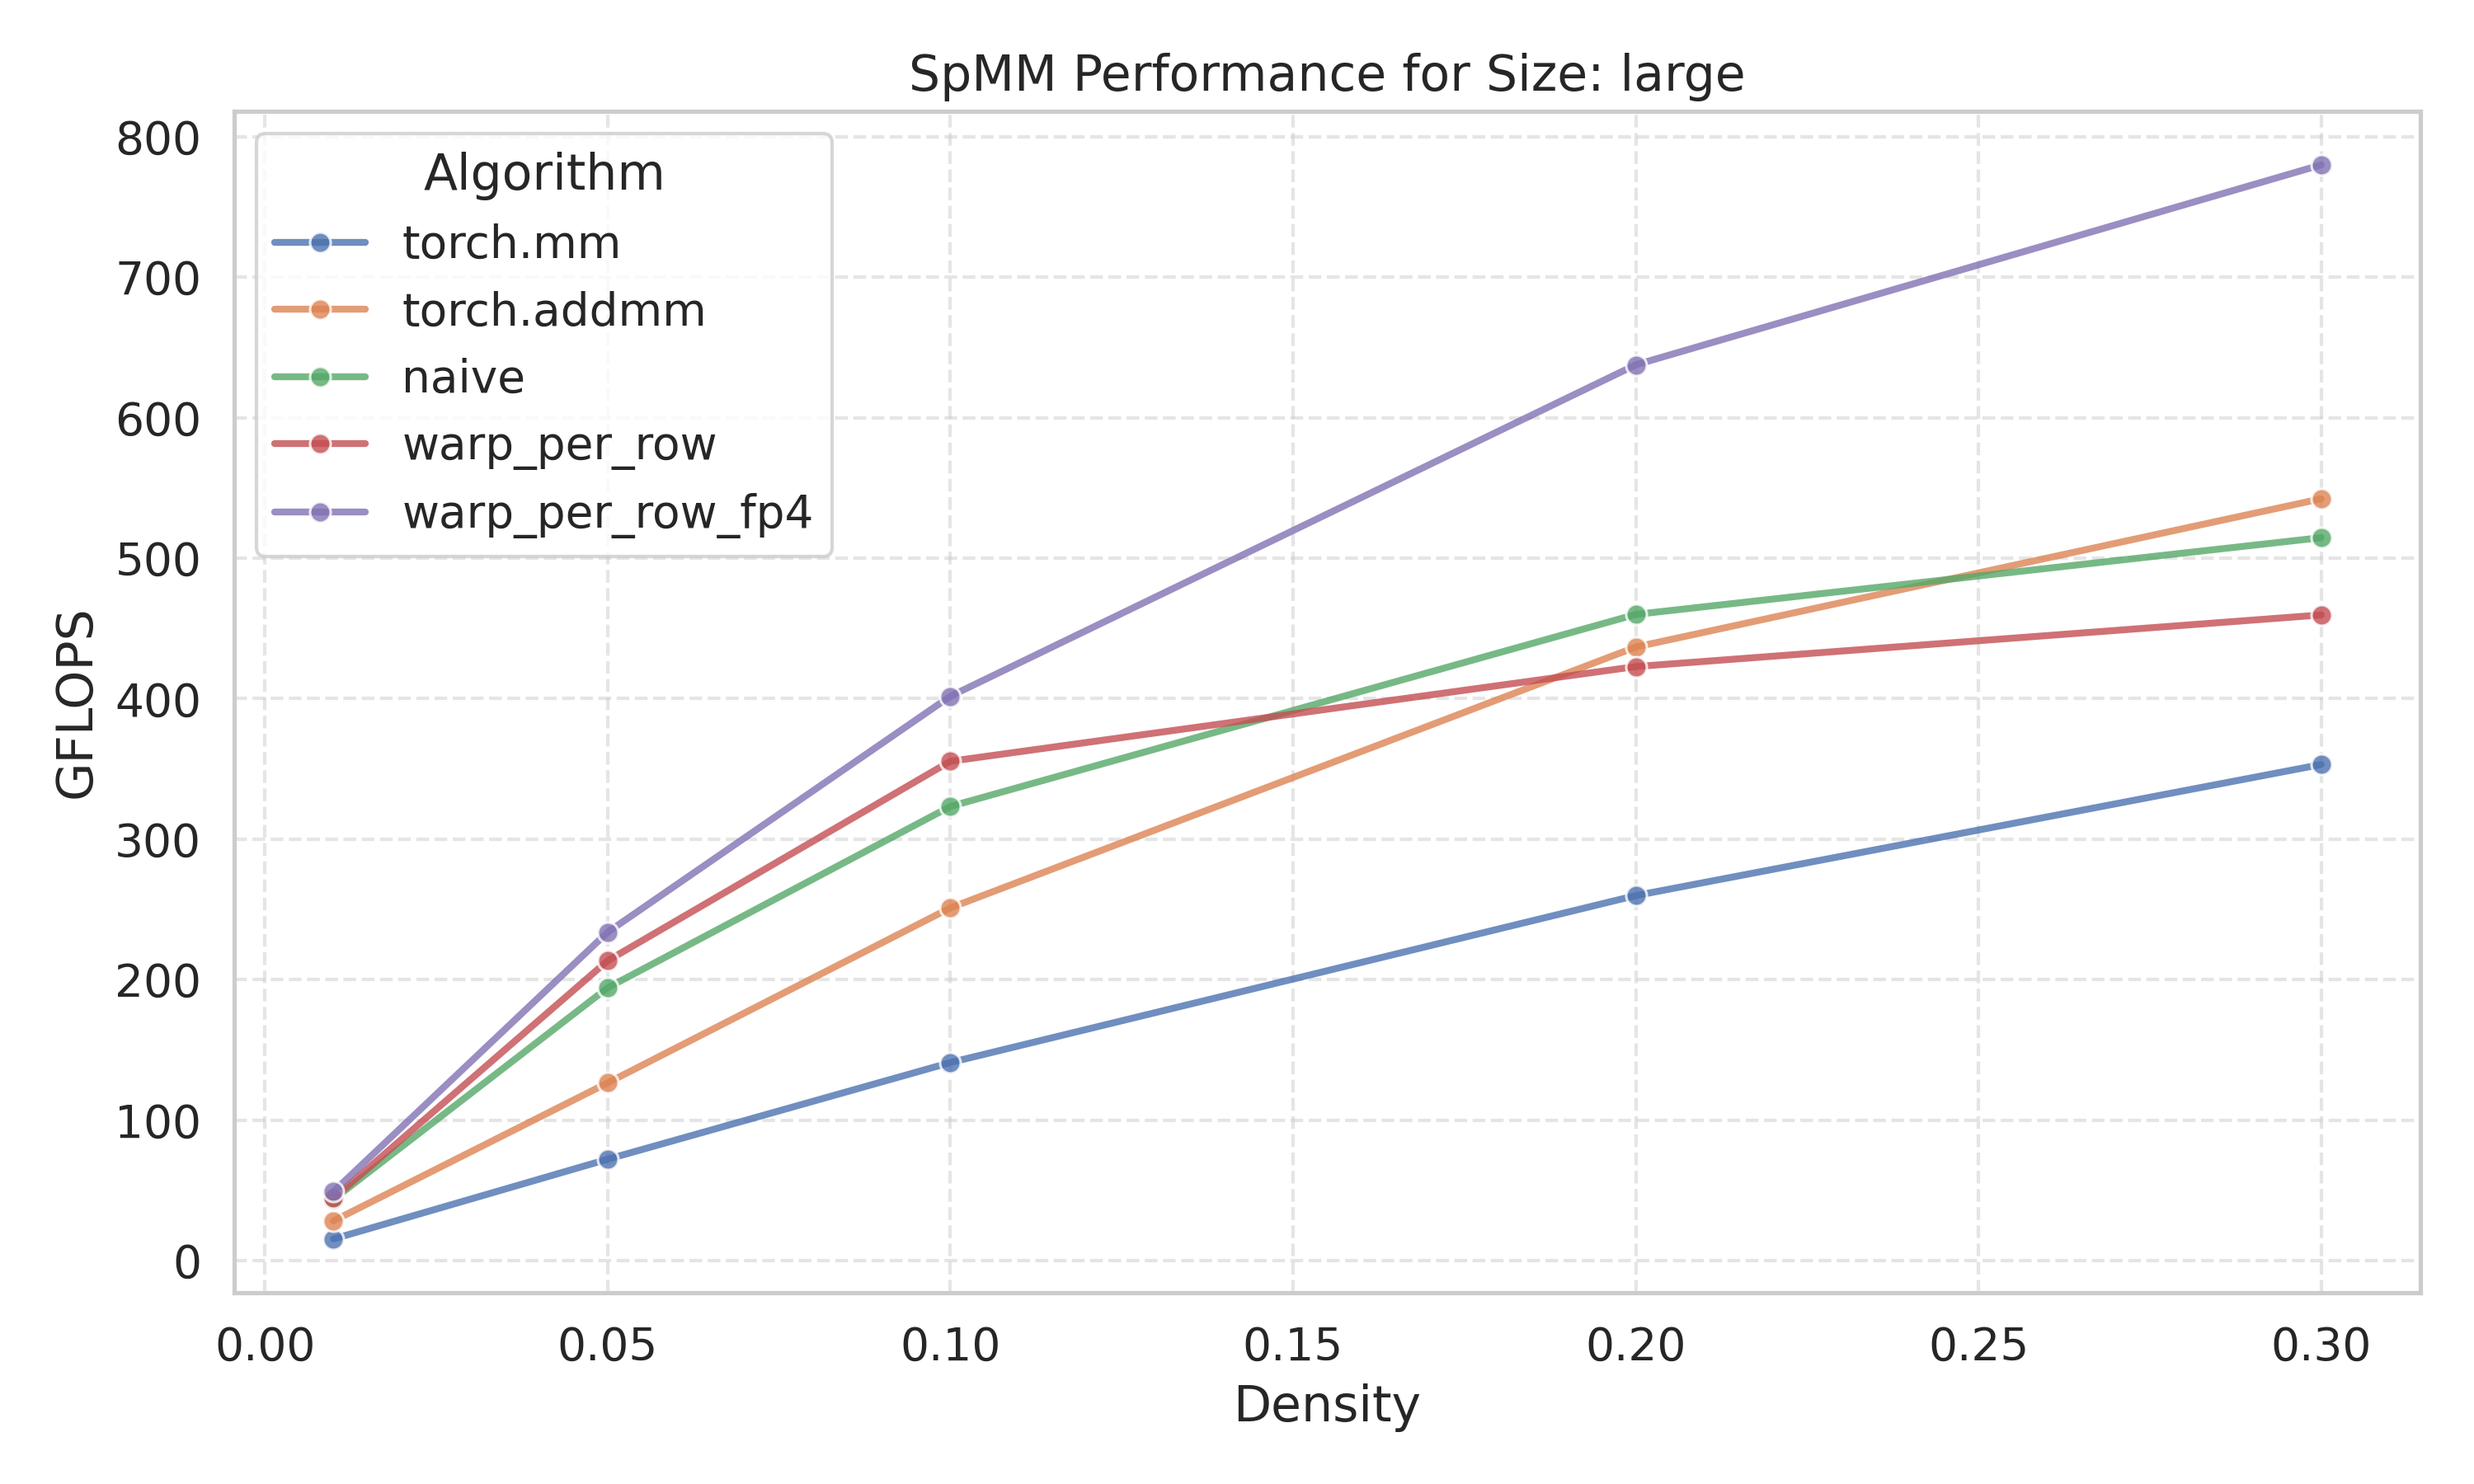
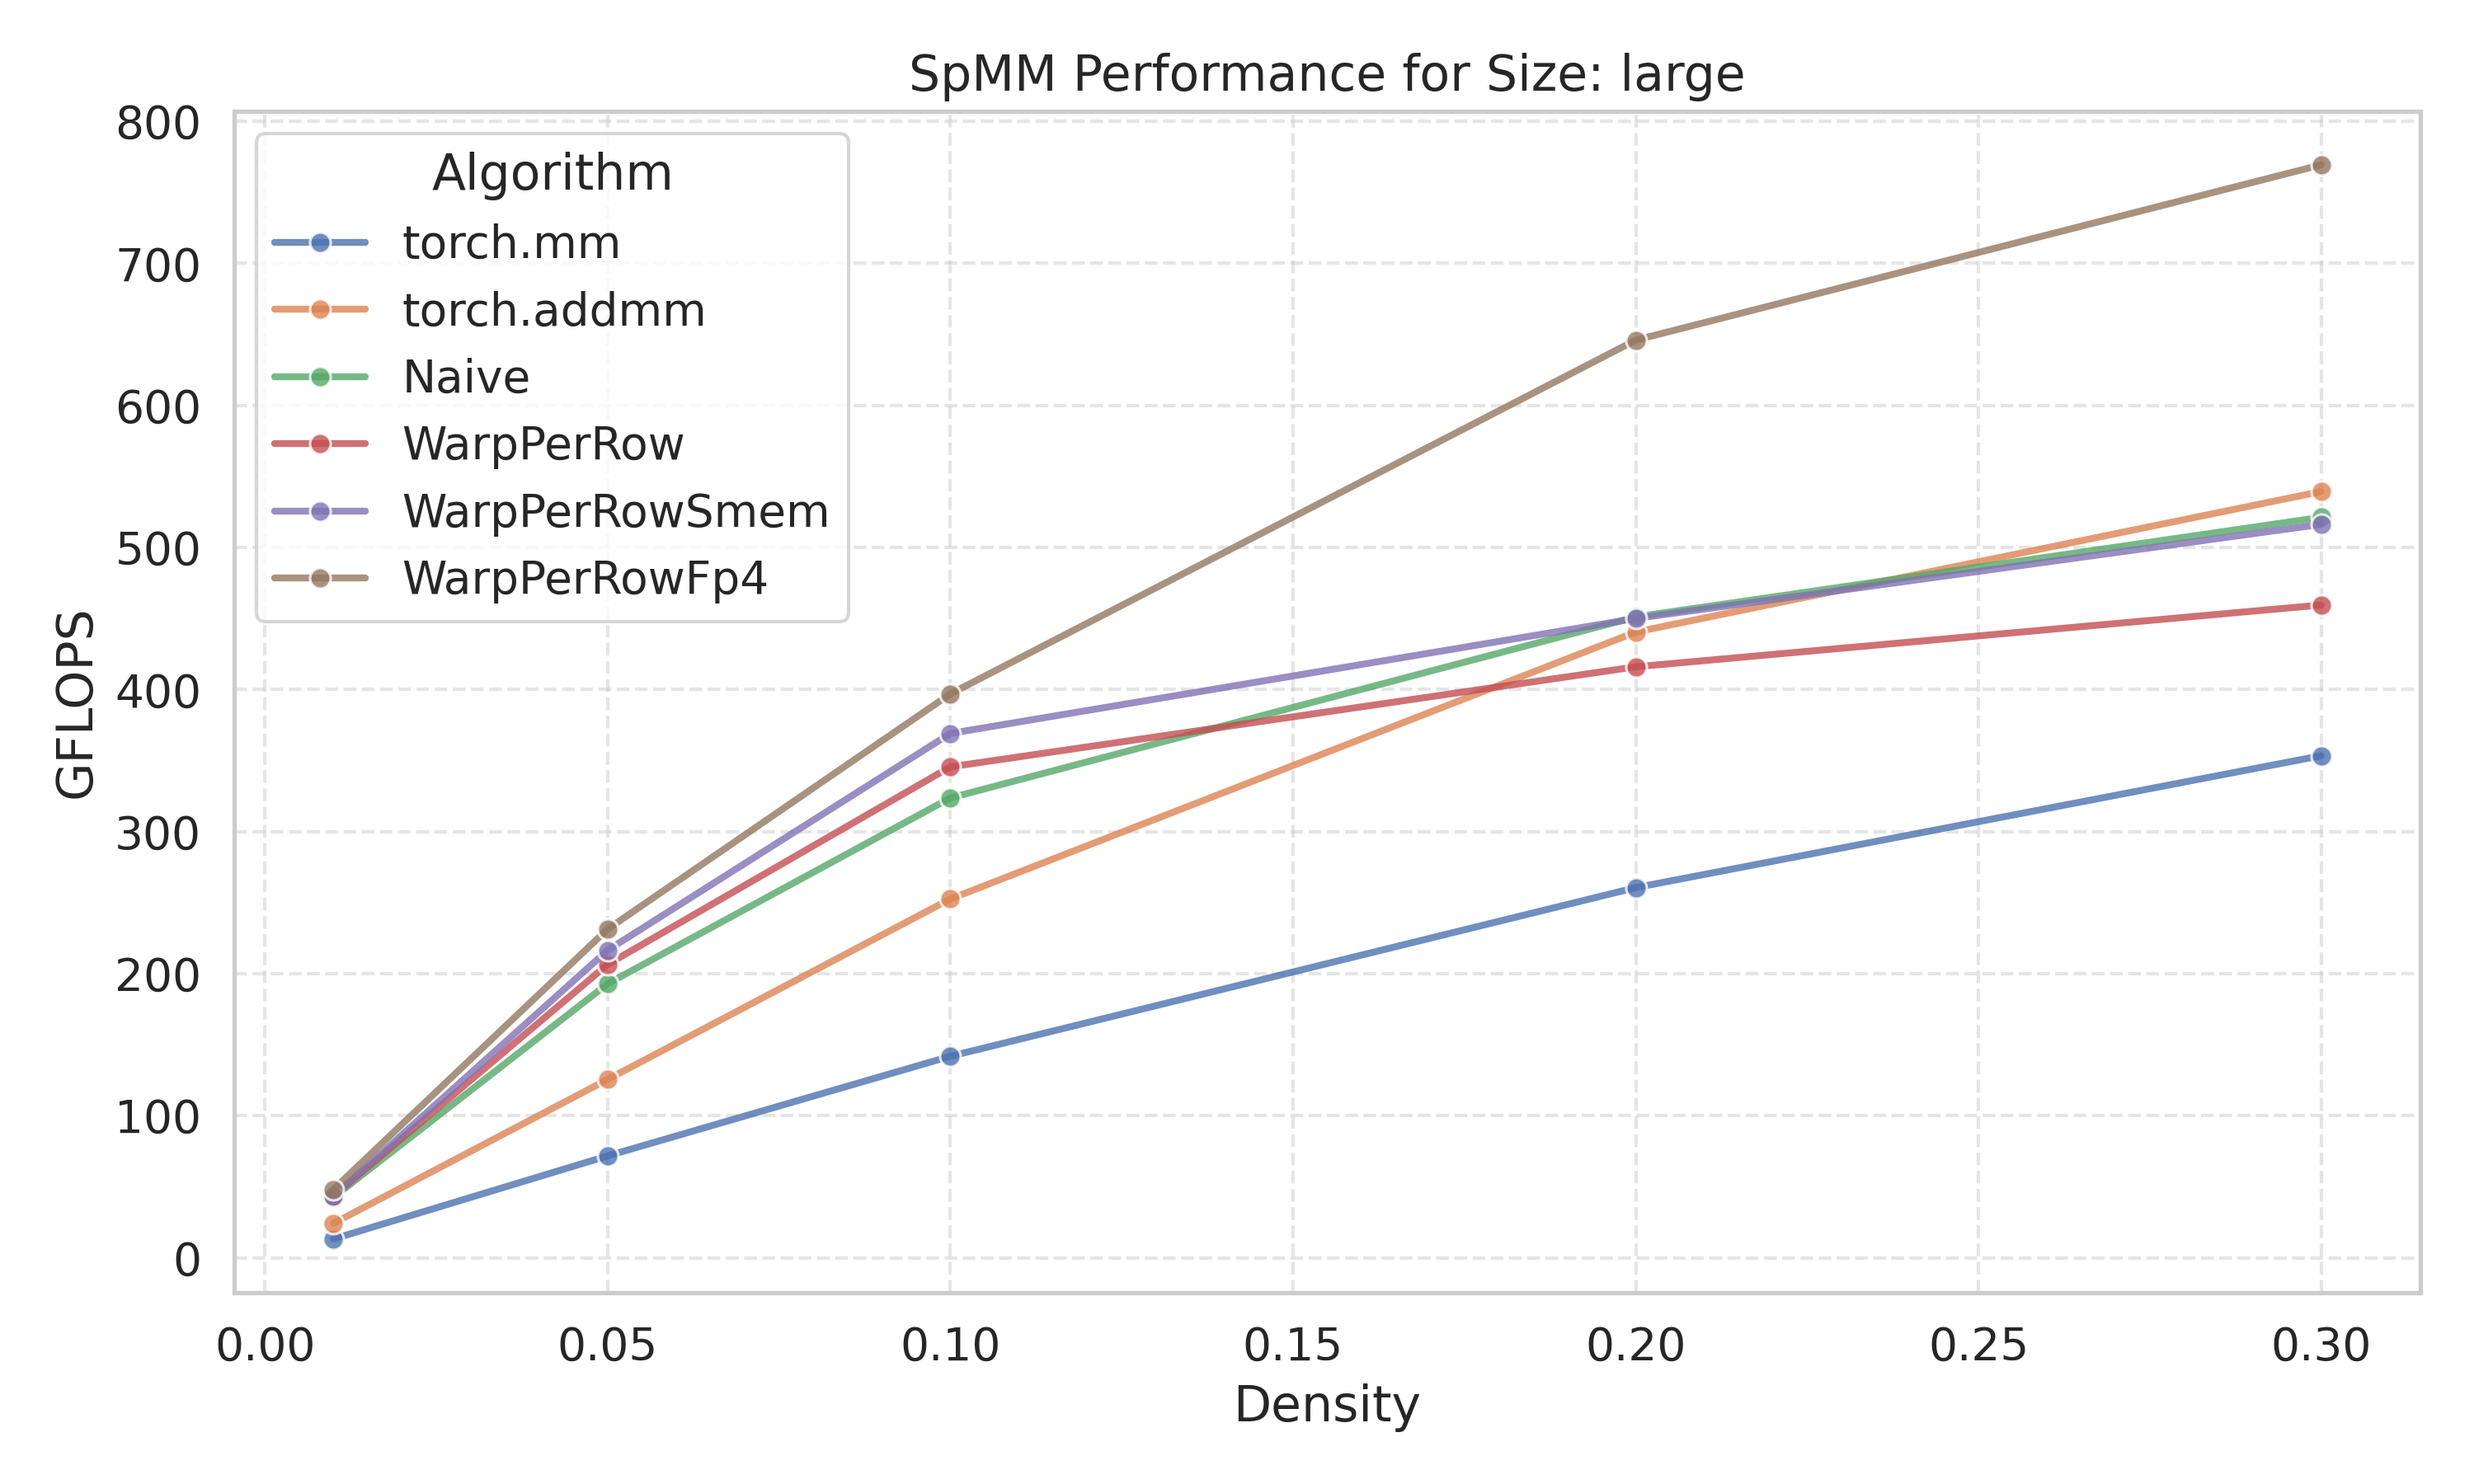
csrspmm warp per row smem interface

diff --git a/torch_csrspmm/torch_benchmarks.py b/torch_csrspmm/torch_benchmarks.py
@@ -36,11 +36,12 @@ def initialize_matrices(M, N, K, sparsity):
     return A, B, C, A_csr
 
 
-def extract_csr(A_csr):
+def preprocess_csr(A_csr):
     row = A_csr.crow_indices().to(torch.int32)
     col = A_csr.col_indices().to(torch.int32)
     val = A_csr.values()
-    return row, col, val
+    max_row_nnz = int((row[1:] - row[:-1]).max().item())
+    return row, col, val, max_row_nnz
 
 
 def time_fn(fn, *args, n_warmup=20, iters=100):
@@ -78,6 +79,9 @@ def fn_naive(alpha, row, col, val, B, beta, C):
 def fn_warp_per_row(alpha, row, col, val, B, beta, C):
     return torch_csrspmm.csrspmm_warp_per_row(row, col, val, B, alpha, beta)
 
+def fn_warp_per_row_smem(alpha, row, col, val, max_row_nnz, B, beta, C):
+    return torch_csrspmm.csrspmm_warp_per_row_smem(row, col, val, max_row_nnz, B, alpha, beta)
+
 def fn_warp_per_row_fp4(alpha, row, col, val, B, beta, C):
     return torch_csrspmm.csrspmm_warp_per_row_fp4(row, col, val, B, alpha, beta)
 
@@ -96,14 +100,15 @@ def main():
             A, B, C, A_csr = initialize_matrices(M, N, K, sparsity)
             nnz = A_csr.values().numel()
 
-            row, col, val = extract_csr(A_csr)
+            row, col, val, max_row_nnz = preprocess_csr(A_csr)
 
             timings = {
                 "torch.mm": time_fn(fn_torch_mm, alpha, A_csr, beta, B, C),
                 "torch.addmm": time_fn(fn_torch_addmm, alpha, A_csr, beta, B, C),
-                "naive": time_fn(fn_naive, alpha, row, col, val, B, beta, C),
-                "warp_per_row": time_fn(fn_warp_per_row, alpha, row, col, val, B, beta, C),
-                "warp_per_row_fp4": time_fn(fn_warp_per_row_fp4, alpha, row, col, val, B, beta, C),
+                "Naive": time_fn(fn_naive, alpha, row, col, val, B, beta, C),
+                "WarpPerRow": time_fn(fn_warp_per_row, alpha, row, col, val, B, beta, C),
+                "WarpPerRowSmem": time_fn(fn_warp_per_row_smem, alpha, row, col, val, max_row_nnz, B, beta, C),
+                "WarpPerRowFp4": time_fn(fn_warp_per_row_fp4, alpha, row, col, val, B, beta, C),
             }
 
             for algo, t in timings.items():

diff --git a/torch_csrspmm/torch_csrspmm_warp_per_row_smem.cpp b/torch_csrspmm/torch_csrspmm_warp_per_row_smem.cpp
@@ -1,0 +1,61 @@
+#include <torch/extension.h>
+#include <iostream>
+
+#include "csrspmm/matrix.h"
+#include "csrspmm/csr_utils.h"
+#include "csrspmm/dense_utils.h"
+#include "csrspmm/spmm_launcher.cuh"
+
+using torch::Tensor;
+
+Tensor csrspmm_warp_per_row_smem_forward(
+    Tensor A_row_ptr,
+    Tensor A_col_idx,
+    Tensor A_values,
+    int A_max_row_nnz,
+    Tensor B,
+    float alpha,
+    float beta
+) {
+    TORCH_CHECK(A_row_ptr.is_cuda(), "A_row_ptr must be a CUDA tensor");
+    TORCH_CHECK(A_col_idx.is_cuda(), "A_col_idx must be a CUDA tensor");
+    TORCH_CHECK(A_values.is_cuda(), "A_values must be a CUDA tensor");
+    TORCH_CHECK(B.is_cuda(), "B must be a CUDA tensor");
+
+    TORCH_CHECK(A_row_ptr.dtype() == torch::kInt32,  "A_row_ptr must be int32");
+    TORCH_CHECK(A_col_idx.dtype() == torch::kInt32,  "A_col_idx must be int32");
+    TORCH_CHECK(A_values.dtype()  == torch::kFloat32, "A_values must be float32");
+    TORCH_CHECK(B.dtype() == torch::kFloat32, "B must be float32");
+
+    int M = A_row_ptr.size(0) - 1;
+    int K = B.size(0);
+    int N = B.size(1);
+
+    Tensor C = (beta == 0.f)
+        ? torch::empty({M, N}, B.options())
+        : torch::zeros({M, N}, B.options());
+
+    csrspmm::CSRMatrix dA;
+    dA.height = M;
+    dA.width  = K;
+    dA.nnz    = A_values.size(0);
+    dA.row_ptr = A_row_ptr.data_ptr<int>();
+    dA.col_idx = A_col_idx.data_ptr<int>();
+    dA.values  = A_values.data_ptr<float>();
+
+    dA.max_row_nnz = A_max_row_nnz;
+
+    csrspmm::DenseMatrix dB;
+    dB.height = K;
+    dB.width  = N;
+    dB.data   = B.data_ptr<float>();
+
+    csrspmm::DenseMatrix dC;
+    dC.height = M;
+    dC.width  = N;
+    dC.data   = C.data_ptr<float>();
+
+    csrspmm::launch_warp_per_row_smem(dA, dB, dC, alpha, beta);
+
+    return C;
+}

diff --git a/tests/test_pytorch.py b/tests/test_pytorch.py
@@ -54,14 +54,17 @@ def run_single_test(M, N, K, device, algo="naive"):
     val  = val.to(device)
     B    = B.to(device)
     A_dense = A_dense.to(device)
+    max_row_nnz = int((crow[1:] - crow[:-1]).max().item())
 
     # ---- Run your kernel ----
     alpha, beta = 1, 1 
     if algo == "naive":
         C1 = torch_csrspmm.csrspmm_naive(crow, col, val, B, alpha, beta)
-    elif algo == "warp_per_row": 
+    elif algo == "WarpPerRow": 
         C1 = torch_csrspmm.csrspmm_warp_per_row(crow, col, val, B, alpha, beta)
-    elif algo == "warp_per_row_fp4": 
+    elif algo == "WarpPerRowSmem": 
+        C1 = torch_csrspmm.csrspmm_warp_per_row_smem(crow, col, val, max_row_nnz, B, alpha, beta)
+    elif algo == "WarpPerRowFp4": 
         C1 = torch_csrspmm.csrspmm_warp_per_row_fp4(crow, col, val, B, alpha, beta)
     else: 
         raise NotImplementedError("Algorithm currently not supported")
@@ -86,7 +89,7 @@ def main():
     device = "cuda" if torch.cuda.is_available() else "cpu"
     print("Using device:", device)
     
-    algos = ["naive", "warp_per_row", "warp_per_row_fp4"]
+    algos = ["naive", "WarpPerRow", "WarpPerRowSmem", "WarpPerRowFp4"]
     for algo in algos:
         # ---- Small tests ----
         run_single_test(4, 4, 8, device, algo)

diff --git a/torch_csrspmm/__init__.py b/torch_csrspmm/__init__.py
@@ -2,6 +2,7 @@ import torch
 #  from .torch_csrspmm import *
 from ._C import csrspmm_naive as _csrspmm_naive
 from ._C import csrspmm_warp_per_row as _csrspmm_warp_per_row
+from ._C import csrspmm_warp_per_row_smem as _csrspmm_warp_per_row_smem
 from ._C import csrspmm_warp_per_row_fp4 as _csrspmm_warp_per_row_fp4
 
 
@@ -10,6 +11,9 @@ def csrspmm_naive(A_rowptr, A_colidx, A_values, B, alpha, beta):
 
 def csrspmm_warp_per_row(A_rowptr, A_colidx, A_values, B, alpha, beta):
     return _csrspmm_warp_per_row(A_rowptr, A_colidx, A_values, B, alpha, beta)
+
+def csrspmm_warp_per_row_smem(A_rowptr, A_colidx, A_values, A_max_row_nnz, B, alpha, beta):
+    return _csrspmm_warp_per_row_smem(A_rowptr, A_colidx, A_values, A_max_row_nnz, B, alpha, beta)
 
 def csrspmm_warp_per_row_fp4(A_rowptr, A_colidx, A_values, B, alpha, beta):
     return _csrspmm_warp_per_row_fp4(A_rowptr, A_colidx, A_values, B, alpha, beta)

diff --git a/torch_csrspmm/binding.cpp b/torch_csrspmm/binding.cpp
@@ -14,10 +14,16 @@ torch::Tensor csrspmm_warp_per_row_fp4_forward(
     torch::Tensor, torch::Tensor, torch::Tensor, torch::Tensor, float, float
 );
 
+torch::Tensor csrspmm_warp_per_row_smem_forward(
+    torch::Tensor, torch::Tensor, torch::Tensor, int, torch::Tensor, float, float
+);
+
+
 
 // Expose to Python via PyBind11
 PYBIND11_MODULE(TORCH_EXTENSION_NAME, m) {
     m.def("csrspmm_naive", &csrspmm_naive_forward, "CSR SpMM (naive)");
     m.def("csrspmm_warp_per_row", &csrspmm_warp_per_row_forward, "CSR SpMM (warp_per_row)");
+    m.def("csrspmm_warp_per_row_smem", &csrspmm_warp_per_row_smem_forward, "CSR SpMM (warp_per_row_smem)");
     m.def("csrspmm_warp_per_row_fp4", &csrspmm_warp_per_row_fp4_forward, "CSR SpMM (warp_per_row_fp4)");
 }

diff --git a/setup.py b/setup.py
@@ -16,6 +16,7 @@ sources = [
     str(PROJECT_ROOT / "torch_csrspmm" / "binding.cpp"),
     str(PROJECT_ROOT / "torch_csrspmm" / "torch_csrspmm_naive.cpp"),
     str(PROJECT_ROOT / "torch_csrspmm" / "torch_csrspmm_warp_per_row.cpp"),
+    str(PROJECT_ROOT / "torch_csrspmm" / "torch_csrspmm_warp_per_row_smem.cpp"),
     str(PROJECT_ROOT / "torch_csrspmm" / "torch_csrspmm_warp_per_row_fp4.cpp"),
 
     # Host utilities
